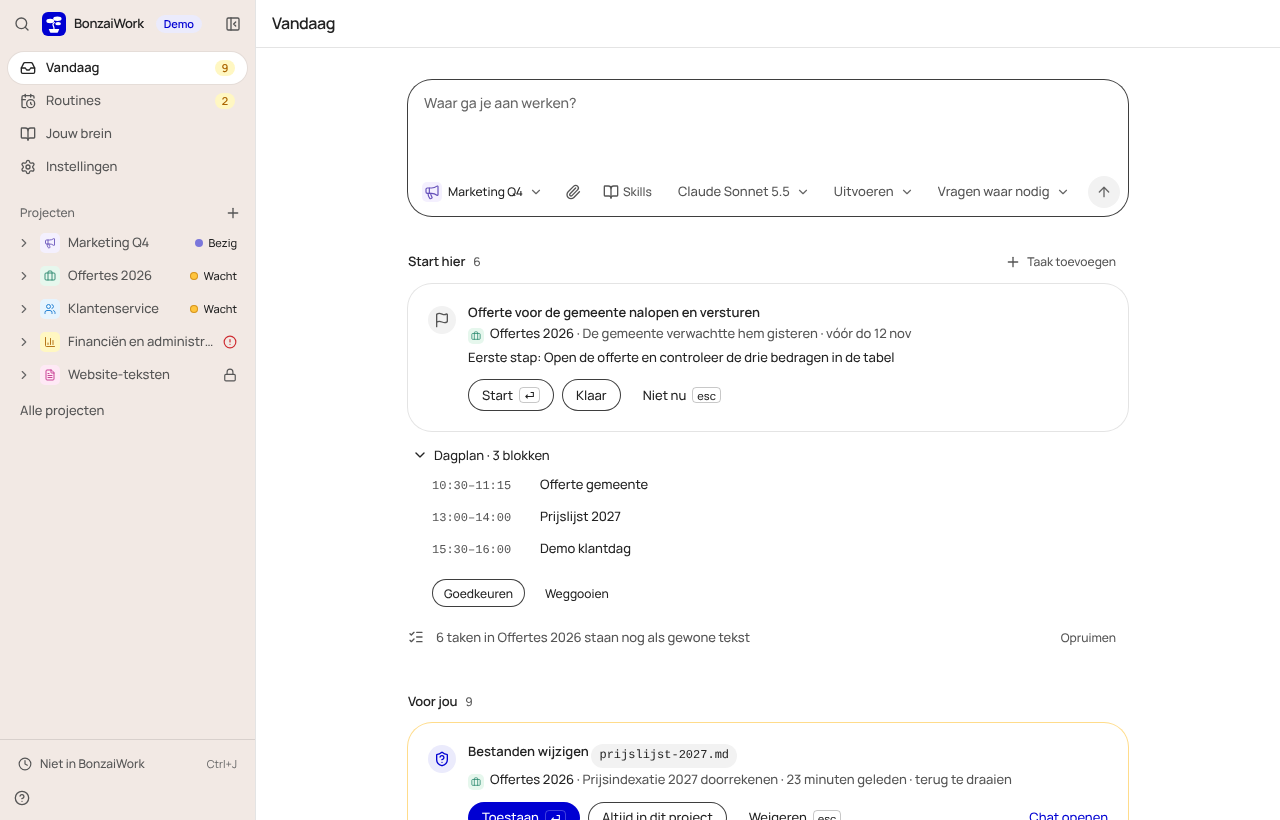
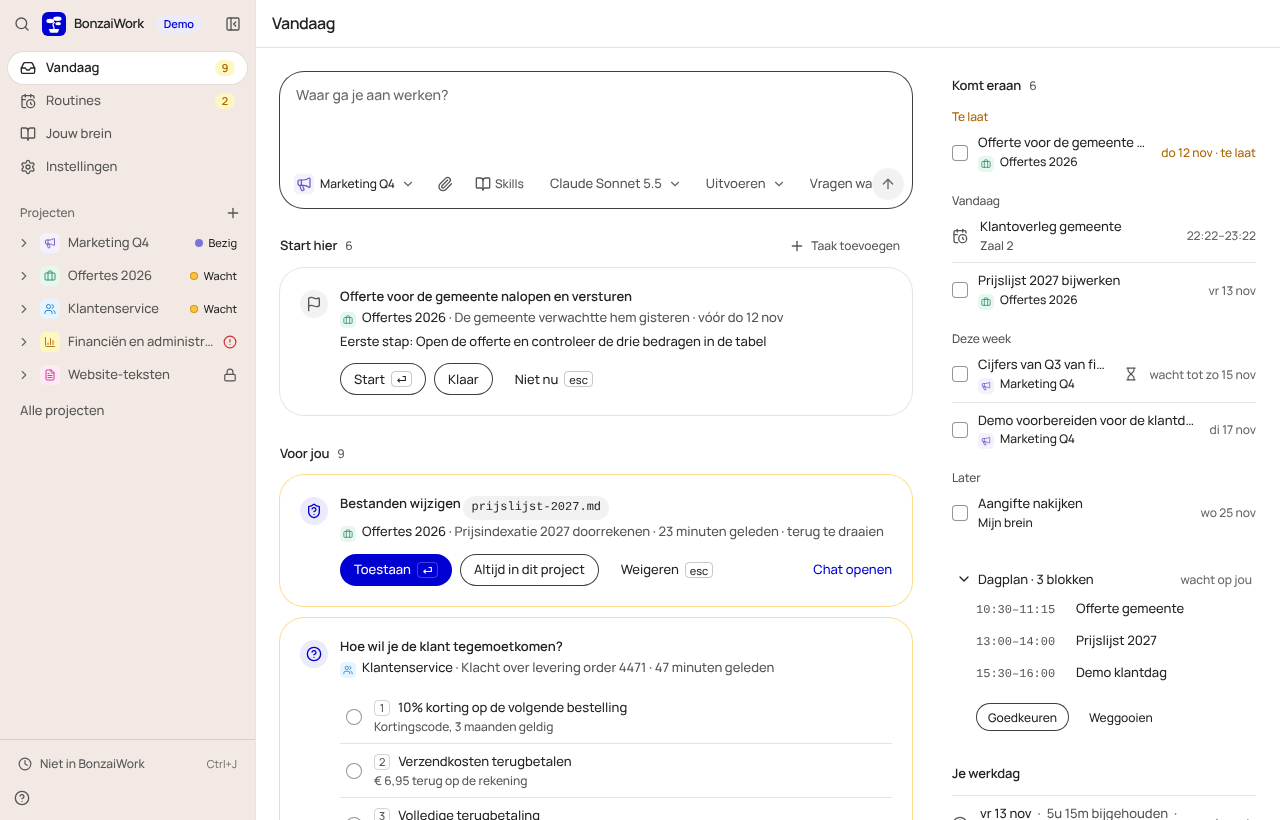
feat(bonzaiwork): a shorter Vandaag with the personal agent on
Two columns on a wide window: the work on the left, the day (Komt eraan,
the day plan, Je werkdag) on the right, where it stays in view. In one
column Komt eraan shows only what is late or today and the day plan is one
row until opened. A mail or Slack card is three lines until Antwoord
bekijken opens the reply; Versturen only shows with the full text. Voor
jou shows three cards, and the project list leaves the page on a desktop,
where the sidebar has it.

Claude-Session: https://claude.ai/code/session_01Nmgo2X54T1ZQKktNZCxs2x

diff --git a/apps/bonzaiwork/src/features/home/home-page.tsx b/apps/bonzaiwork/src/features/home/home-page.tsx
@@ -9,11 +9,12 @@ import { toast } from "~/components/ui/toast";
 import { copy } from "~/copy";
 import { errorText } from "~/lib/errors";
 import { SEEN_ALL_EVENT } from "~/lib/shortcuts";
-import { SMALL_UP, useMediaQuery } from "~/lib/use-media";
+import { cn } from "~/lib/cn";
+import { DESKTOP, SMALL_UP, useMediaQuery, WIDE } from "~/lib/use-media";
 
 import { useSidebarProjects } from "../projects/use-listed-projects";
 import { withWorld } from "../today/model";
-import { FocusLine, StartSection, TodayBlocked, UpcomingSection } from "../today/today-sections";
+import { CleanupRow, FocusLine, PlanSection, StartSection, TodayBlocked, UpcomingSection } from "../today/today-sections";
 import { AttentionSection } from "./attention-section";
 import { HomeComposer } from "./home-composer";
 import { awayRows, MAX_AWAY_ROWS, nextRoutine, readLastSeen, writeLastSeen } from "./model";
@@ -103,7 +104,21 @@ export function HomePage() {
       return false;
     }
   };
-  const composer = <HomeComposer projects={projects} size={smallUp ? "large" : "default"} autoFocus={false} onPark={agent && !agent.blocked ? park : undefined} />;
+  // With the personal agent on there is more to show: a second column on a wide window keeps the
+  // day (Komt eraan, dagplan, Je werkdag) beside the work instead of below it.
+  const wide = useMediaQuery(WIDE);
+  const desktop = useMediaQuery(DESKTOP);
+  const columns = Boolean(agent) && wide;
+  const composer = <HomeComposer projects={projects} size={smallUp && !agent ? "large" : "default"} autoFocus={false} onPark={agent && !agent.blocked ? park : undefined} />;
+  const cleanup = agent?.cleanup[0];
+  const day = (
+    <>
+      {agent ? <UpcomingSection rows={agent.upcoming} projects={everyProject} compact={!columns} /> : null}
+      {agent?.plan ? <PlanSection plan={agent.plan} open={columns} /> : null}
+      <WorkdaySection nextRoutine={next} projects={projectMap} />
+      {cleanup ? <CleanupRow candidate={cleanup} /> : null}
+    </>
+  );
 
   return (
     <div className="flex h-full min-h-0 flex-col">
@@ -111,17 +126,30 @@ export function HomePage() {
         <PageTitle>{copy.home.title}</PageTitle>
       </TopBar>
       <main className="min-h-0 flex-1 overflow-y-auto" data-testid="home-page">
-        <div className="mx-auto flex w-full max-w-3xl flex-col gap-8 px-4 pt-6 pb-12 sm:px-6 sm:pt-8">
-          {smallUp ? composer : null}
-          {agent?.focus ? <FocusLine focus={agent.focus} projects={everyProject} /> : null}
-          {agent?.blocked ? <TodayBlocked reason={agent.blocked} /> : null}
-          {agent && !agent.blocked ? <StartSection view={agent} projects={everyProject} isFocal={!decisionWaits} /> : null}
-          <AttentionSection items={attention.data ? items : undefined} loading={attention.isLoading} projects={projectMap} brains={brainMap} routines={routineMap} nextRoutine={next} focal={!agent?.start || decisionWaits} />
-          {agent ? <UpcomingSection rows={agent.upcoming} projects={everyProject} /> : null}
-          <BusySection chats={recent.data ?? []} projects={projectMap} />
-          <WhileAwaySection rows={away} projects={projectMap} lastSeenAt={lastSeenAt} onSeenAll={seenAll} />
-          <WorkdaySection nextRoutine={next} projects={projectMap} />
-          <ProjectsSection projects={projects} summaries={summaries} items={items} />
+        <div className={cn("mx-auto w-full px-4 pt-6 pb-12 sm:px-6", columns ? "grid max-w-6xl grid-cols-[minmax(0,1fr)_19rem] items-start gap-x-10" : "max-w-3xl sm:pt-8")}>
+          <div className={cn("flex min-w-0 flex-col", agent ? "gap-6" : "gap-8")}>
+            {smallUp ? composer : null}
+            {agent?.focus ? <FocusLine focus={agent.focus} projects={everyProject} /> : null}
+            {agent?.blocked ? <TodayBlocked reason={agent.blocked} /> : null}
+            {agent && !agent.blocked ? <StartSection view={agent} projects={everyProject} isFocal={!decisionWaits} /> : null}
+            <AttentionSection
+              items={attention.data ? items : undefined}
+              loading={attention.isLoading}
+              projects={projectMap}
+              brains={brainMap}
+              routines={routineMap}
+              nextRoutine={next}
+              focal={!agent?.start || decisionWaits}
+              maxCards={agent ? 3 : undefined}
+            />
+            {columns ? null : day}
+            <BusySection chats={recent.data ?? []} projects={projectMap} />
+            <WhileAwaySection rows={away} projects={projectMap} lastSeenAt={lastSeenAt} onSeenAll={seenAll} />
+            {/* With the agent on, the page keeps to the day: the sidebar already lists the projects on a desktop. */}
+            {agent && desktop ? null : <ProjectsSection projects={projects} summaries={summaries} items={items} />}
+          </div>
+          {/* The day stays in view while the work column scrolls. */}
+          {columns ? <aside className="sticky top-6 flex min-w-0 flex-col gap-6" data-testid="home-day">{day}</aside> : null}
         </div>
       </main>
       {smallUp ? null : <div className="shrink-0 border-t border-border bg-background px-3 pt-2 pb-[max(8px,env(safe-area-inset-bottom))]">{composer}</div>}

diff --git a/apps/bonzaiwork/src/features/today/today-sections.tsx b/apps/bonzaiwork/src/features/today/today-sections.tsx
@@ -22,7 +22,7 @@ import { href, navigate } from "~/lib/router";
 
 import { sendFirstMessage } from "../chat/first-message";
 import { SectionHeading } from "../home/attention-section";
-import { formatDay, groupUpcoming, MAX_UPCOMING_ROWS, meetingTime, startProject } from "./model";
+import { formatDay, groupUpcoming, MAX_UPCOMING_ROWS, meetingTime, startProject, upcomingNow } from "./model";
 
 /**
  * The personal agent's own sections on Vandaag (docs/bonzaiwork/persoonlijke-agent-plan.md §4):
@@ -186,17 +186,28 @@ function AddTodoDialog(props: { open: boolean; onOpenChange: (open: boolean) => 
   );
 }
 
-function PlanBlockList(props: { plan: DayPlan }) {
+/**
+ * The day plan. In the side column it stands open (the blocks are short and the answer, S3); in
+ * one column it is a single row until opened, so it never pushes "Voor jou" down.
+ */
+export function PlanSection(props: { plan: DayPlan; open: boolean }) {
   const backend = useBackend();
   const { busy, act } = useAction();
   const { plan } = props;
+  if (!plan.blocks.length) return null;
   return (
-    // Open while it waits for a decision: then the blocks are the answer (S3).
-    <Disclosure key={String(plan.approved)} label={copy.today.plan.title(plan.blocks.length)} defaultOpen={!plan.approved} testId="today-plan" panelClassName="ps-6 pt-1">
+    <Disclosure
+      key={`${plan.approved}-${props.open}`}
+      label={copy.today.plan.title(plan.blocks.length)}
+      trailing={plan.approved ? undefined : copy.today.plan.waiting}
+      defaultOpen={props.open}
+      testId="today-plan"
+      panelClassName="ps-6 pt-1"
+    >
       <ul>
         {plan.blocks.map((block) => (
           <li key={`${block.start}-${block.label}`} className="flex min-h-8 items-baseline gap-3 text-sm">
-            <span className="w-24 shrink-0 font-mono text-xs text-muted-foreground">{copy.today.plan.block(block.start, block.end)}</span>
+            <span className="w-[5.5rem] shrink-0 font-mono text-xs text-muted-foreground">{copy.today.plan.block(block.start, block.end)}</span>
             <span className="min-w-0 truncate text-foreground">{block.label}</span>
           </li>
         ))}
@@ -215,7 +226,7 @@ function PlanBlockList(props: { plan: DayPlan }) {
   );
 }
 
-function CleanupRow(props: { candidate: CleanupCandidate }) {
+export function CleanupRow(props: { candidate: CleanupCandidate }) {
   const backend = useBackend();
   const startChat = useStartChat();
   const { busy, act } = useAction();
@@ -226,7 +237,7 @@ function CleanupRow(props: { candidate: CleanupCandidate }) {
       if (started) navigate({ name: "project", projectId: started.project.id, chatId: started.chatId });
     });
   return (
-    <div className="flex min-h-9 flex-wrap items-center gap-x-3 gap-y-1 text-sm text-muted-foreground" data-testid="today-cleanup">
+    <div className="flex min-h-9 items-center gap-x-3 text-xs text-muted-foreground" data-testid="today-cleanup">
       <ListChecks className="size-4 shrink-0" aria-hidden="true" />
       <span className="min-w-0 flex-1">{copy.today.cleanup.line(candidate.lines, candidate.brainName)}</span>
       <Button variant="quiet" size="sm" disabled={busy} onClick={start}>
@@ -299,7 +310,6 @@ function StartCard(props: { start: StartHere; projects: ReadonlyMap<string, Proj
 export function StartSection(props: { view: TodayView; projects: ReadonlyMap<string, Project>; isFocal: boolean }) {
   const [adding, setAdding] = useState(false);
   const { view } = props;
-  const cleanup = view.cleanup[0];
   return (
     <section aria-labelledby="home-start" data-testid="home-start">
       <SectionHeading
@@ -323,8 +333,6 @@ export function StartSection(props: { view: TodayView; projects: ReadonlyMap<str
           // One line, no explanation (C6, P1); "Taak toevoegen" stands in the heading.
           <p className="text-sm text-muted-foreground">{copy.today.nothingOpen}</p>
         )}
-        {view.plan && view.plan.blocks.length ? <PlanBlockList plan={view.plan} /> : null}
-        {cleanup ? <CleanupRow candidate={cleanup} /> : null}
       </div>
       <AddTodoDialog open={adding} onOpenChange={setAdding} projects={props.projects} />
     </section>
@@ -383,10 +391,11 @@ function UpcomingItem(props: { row: UpcomingRow; projects: ReadonlyMap<string, P
 }
 
 /** Deadlines, promises and appointments for the coming days, soonest first; late in amber. */
-export function UpcomingSection(props: { rows: readonly UpcomingRow[]; projects: ReadonlyMap<string, Project> }) {
+export function UpcomingSection(props: { rows: readonly UpcomingRow[]; projects: ReadonlyMap<string, Project>; /** In one column: only what is late or today, the rest behind "Nog n". */ compact?: boolean }) {
   if (!props.rows.length) return null;
-  const shown = groupUpcoming(props.rows.slice(0, MAX_UPCOMING_ROWS));
-  const more = props.rows.slice(MAX_UPCOMING_ROWS);
+  const first = props.compact ? upcomingNow(props.rows) : props.rows.slice(0, MAX_UPCOMING_ROWS);
+  const shown = groupUpcoming(first);
+  const more = props.rows.slice(first.length);
   const group = (rows: readonly UpcomingRow[]) => (
     <ul>
       {rows.map((row) => (

diff --git a/apps/bonzaiwork/src/features/today/world-cards.tsx b/apps/bonzaiwork/src/features/today/world-cards.tsx
@@ -7,6 +7,7 @@ import type { DayItem } from "~/backend/types";
 import { ProseHtml } from "~/components/prose-html";
 import { Button } from "~/components/ui/button";
 import { Callout } from "~/components/ui/callout";
+import { Disclosure } from "~/components/ui/disclosure";
 import { Textarea } from "~/components/ui/field";
 import { Kbd } from "~/components/ui/misc";
 import { toast } from "~/components/ui/toast";
@@ -78,8 +79,11 @@ function MessageCard(props: CardProps<"message">) {
   const { item } = props;
   const { busy, act } = useWorldAction(props.onResolved);
   const [text, setText] = useState(item.draft ?? "");
+  // Closed, the card is three lines: who, why, and the start of the draft. The full text and
+  // "Versturen" only show together, so nothing is sent unseen (P9).
+  const [open, setOpen] = useState(false);
   const source = copy.today.message[item.source];
-  const canSend = Boolean(item.reply) && text.trim().length > 0;
+  const canSend = open && Boolean(item.reply) && text.trim().length > 0;
   const send = () => void act(() => backend.today.send(item.key, text), copy.today.message.sent);
   // Esc sets the card aside for a day; it never throws a message away.
   const later = () => void act(() => backend.today.later(item.key), copy.today.message.laterToast);
@@ -88,7 +92,7 @@ function MessageCard(props: CardProps<"message">) {
       ref={props.cardRef}
       className={CARD}
       tabIndex={0}
-      onKeyDown={cardKeys({ enter: canSend ? send : undefined, escape: later })}
+      onKeyDown={cardKeys({ enter: canSend ? send : item.reply && !open ? () => setOpen(true) : undefined, escape: later })}
       keyShortcuts="Enter Escape"
       testId={`attention-world-${item.source}`}
       label={source}
@@ -98,14 +102,20 @@ function MessageCard(props: CardProps<"message">) {
       state={
         <>
           {source} {copy.today.message.from(item.from)} · {item.why} <span className="whitespace-nowrap">· {relativeTime(item.at)}</span>
-          {item.reply ? <span className="block">{item.reply.via === "mail" ? copy.today.message.sendsMail(item.from) : copy.today.message.sendsSlack(item.title)}</span> : null}
+          {item.reply && open ? <span className="block">{item.reply.via === "mail" ? copy.today.message.sendsMail(item.from) : copy.today.message.sendsSlack(item.title)}</span> : null}
+          {item.reply && !open && text.trim() ? <span className="block truncate text-foreground">{text.trim().replace(/\s+/g, " ")}</span> : null}
         </>
       }
       actions={
         <>
-          {item.reply ? (
+          {item.reply && open ? (
             <Button {...primary(props.isFocal)} disabled={busy || !canSend} onClick={send} data-testid="world-send">
               {copy.today.message.send}
+              <Kbd>⏎</Kbd>
+            </Button>
+          ) : item.reply ? (
+            <Button {...primary(props.isFocal)} disabled={busy} onClick={() => setOpen(true)} data-testid="world-review">
+              {copy.today.message.review}
               <Kbd>⏎</Kbd>
             </Button>
           ) : (
@@ -117,7 +127,7 @@ function MessageCard(props: CardProps<"message">) {
             {copy.today.message.later}
             <Kbd>esc</Kbd>
           </Button>
-          {item.reply ? (
+          {item.reply && open ? (
             <Button variant="ghost" disabled={busy} onClick={() => void act(() => backend.today.dismiss(item.key), null)}>
               {copy.today.message.notMine}
             </Button>
@@ -126,8 +136,9 @@ function MessageCard(props: CardProps<"message">) {
       }
       link={item.link ? <ExternalLink url={item.link} label={copy.today.message.open(item.source === "mail" ? "Outlook" : "Slack")} /> : undefined}
     >
-      {item.reply ? (
+      {item.reply && open ? (
         <Textarea
+          autoFocus
           value={text}
           onChange={(event) => setText(event.target.value)}
           rows={Math.min(8, Math.max(3, text.split("\n").length + 1))}
@@ -173,7 +184,11 @@ function MeetingCard(props: CardProps<"meeting">) {
       }
       link={meeting.link ? <ExternalLink url={meeting.link} label={copy.today.meeting.open} /> : undefined}
     >
-      {html ? <ProseHtml html={html} className="mt-3 text-sm" /> : null}
+      {html ? (
+        <Disclosure label={copy.today.meeting.prep} size="sm" className="mt-2" panelClassName="ps-6 pt-1">
+          <ProseHtml html={html} className="text-sm" />
+        </Disclosure>
+      ) : null}
     </Callout>
   );
 }

diff --git a/apps/bonzaiwork/src/features/today/model.test.ts b/apps/bonzaiwork/src/features/today/model.test.ts
@@ -2,7 +2,7 @@ import { describe, expect, it } from "vitest";
 
 import type { AttentionItem, DayItem, Meeting, UpcomingRow } from "~/backend/types";
 
-import { formatDay, groupUpcoming, meetingTime, minutesUntil, withWorld } from "./model";
+import { formatDay, groupUpcoming, meetingTime, minutesUntil, upcomingNow, withWorld } from "./model";
 
 const meeting: Meeting = { id: "m", title: "Overleg", start: new Date(2026, 10, 13, 10, 20).getTime(), end: new Date(2026, 10, 13, 11, 20).getTime(), allDay: false, location: null, organizer: null, link: null };
 const message: DayItem = { kind: "message", key: "mail:1", source: "mail", title: "T", from: "F", why: "W", draft: null, link: null, reply: null, at: 5 };
@@ -31,6 +31,12 @@ describe("Komt eraan", () => {
     const row = (key: string, bucket: UpcomingRow["bucket"]): UpcomingRow => ({ kind: "meeting", key, bucket, date: "2026-11-13", meeting });
     expect(groupUpcoming([row("a", "late"), row("b", "late"), row("c", "week")]).map((group) => `${group.bucket}:${group.rows.length}`)).toEqual(["late:2", "week:1"]);
     expect(groupUpcoming([])).toEqual([]);
+  });
+
+  it("toont in één kolom alleen wat te laat of vandaag is, hooguit drie", () => {
+    const row = (key: string, bucket: UpcomingRow["bucket"]): UpcomingRow => ({ kind: "meeting", key, bucket, date: "2026-11-13", meeting });
+    expect(upcomingNow([row("a", "late"), row("b", "today"), row("c", "today"), row("d", "today"), row("e", "week")]).map((entry) => entry.key)).toEqual(["a", "b", "c"]);
+    expect(upcomingNow([row("e", "week"), row("f", "later")])).toEqual([]);
   });
 
   it("leest een datum en een afspraak zoals een mens ze zegt", () => {

diff --git a/apps/bonzaiwork/src/features/home/attention-section.tsx b/apps/bonzaiwork/src/features/home/attention-section.tsx
@@ -42,6 +42,8 @@ export function AttentionSection(props: {
   nextRoutine: Routine | null;
   /** False when another element on the page is the focal one ("Start hier"): then no card gets the filled primary by weight (P7). */
   focal?: boolean;
+  /** How many cards before "Nog n"; fewer when the page has more to show beside them. */
+  maxCards?: number;
 }) {
   const refs = useRef(new Map<string, HTMLElement>());
   const [hidden, setHidden] = useState<Map<string, number>>(() => new Map());
@@ -117,8 +119,9 @@ export function AttentionSection(props: {
     );
   }
 
-  const shown = visible.slice(0, MAX_CARDS);
-  const more = visible.slice(MAX_CARDS);
+  const maxCards = props.maxCards ?? MAX_CARDS;
+  const shown = visible.slice(0, maxCards);
+  const more = visible.slice(maxCards);
 
   return (
     <section aria-labelledby="home-for-you" data-testid="home-for-you">
@@ -128,7 +131,7 @@ export function AttentionSection(props: {
           {shown.map(card)}
           {more.length ? (
             <Disclosure label={copy.home.more(more.length)} panelClassName="flex flex-col gap-3 ps-0 pt-2">
-              {more.map((item) => card(item, MAX_CARDS))}
+              {more.map((item) => card(item, maxCards))}
             </Disclosure>
           ) : null}
         </div>

diff --git a/apps/bonzaiwork/src/copy.ts b/apps/bonzaiwork/src/copy.ts
@@ -121,6 +121,7 @@ export const copy = {
     plan: {
       title: (count: number) => (count === 1 ? "Dagplan · 1 blok" : `Dagplan · ${count} blokken`),
       approve: "Goedkeuren",
+      waiting: "wacht op jou",
       approved: "Goedgekeurd",
       drop: "Weggooien",
       dropped: "Weggegooid",
@@ -142,6 +143,7 @@ export const copy = {
       sendsMail: (name: string) => `Stuurt dit antwoord per mail aan ${name} · niet terug te halen`,
       sendsSlack: (channel: string) => `Plaatst dit antwoord in ${channel} · zichtbaar voor iedereen daar`,
       reply: "Jouw antwoord",
+      review: "Antwoord bekijken",
       send: "Versturen",
       sent: "Verstuurd",
       later: "Later",
@@ -152,6 +154,7 @@ export const copy = {
     },
     meeting: {
       label: "Afspraak begint zo",
+      prep: "Voorbereiding",
       startsIn: (minutes: number) => (minutes <= 0 ? "is begonnen" : minutes === 1 ? "over 1 minuut" : `over ${minutes} minuten`),
       seen: "Gezien",
       open: "Openen in Outlook",

diff --git a/apps/bonzaiwork/src/features/today/model.ts b/apps/bonzaiwork/src/features/today/model.ts
@@ -43,6 +43,14 @@ export function groupUpcoming(rows: readonly UpcomingRow[]): UpcomingGroup[] {
   return groups;
 }
 
+/** At most this many rows in "Komt eraan" when it shares one column with everything else. */
+export const MAX_UPCOMING_NOW = 3;
+
+/** What cannot wait: the rows that are late or today (the server lists them first), at most three. */
+export function upcomingNow(rows: readonly UpcomingRow[]): UpcomingRow[] {
+  return rows.filter((row) => row.bucket === "late" || row.bucket === "today").slice(0, MAX_UPCOMING_NOW);
+}
+
 /** The project a chat from Vandaag starts in, when it is still listed. */
 export function startProject(start: TodayChatStart, projects: readonly Project[]): Project | null {
   return projects.find((project) => project.id === start.projectId) ?? null;

diff --git a/docs/bonzaiwork/persoonlijke-agent-plan.md b/docs/bonzaiwork/persoonlijke-agent-plan.md
@@ -106,6 +106,15 @@ Met `--read-only` kan BonzaiWork geen antwoord per mail versturen; "Versturen" m
 
 ## 4. Vandaag
 
+De pagina blijft kort. Op een breed venster (vanaf 1280 px) staan er twee kolommen: links het werk
+(composer, "Start hier", "Voor jou", Bezig, "Terwijl je weg was"), rechts de dag ("Komt eraan", het
+dagplan, "Je werkdag"), en die rechterkolom blijft staan terwijl links scrolt. In één kolom toont "Komt
+eraan" alleen wat te laat of vandaag is (hooguit drie regels, de rest achter "Nog n") en is het dagplan
+één regel tot je het opent. Met de agent aan toont "Voor jou" drie kaarten in plaats van vijf, en valt de
+projectenlijst op een desktop weg: die staat al in de zijbalk. Een kaart voor mail of Slack is dicht drie
+regels (wie, waarom, het begin van het concept); "Antwoord bekijken" opent het bewerkbare antwoord, en
+pas dan staat er "Versturen".
+
 Volgorde; secties zonder inhoud worden niet getoond:
 
 1. **Composer**, met **Parkeren** (⌥⏎) zodra er tekst staat: de gedachte gaat naar `inbox.md`, toast
@@ -115,7 +124,7 @@ Volgorde; secties zonder inhoud worden niet getoond:
    van de taak waarin de agent de eerste stap al doet, en meldt aanwezigheid voor de agenda. **Klaar**
    vinkt af. **Niet nu** (esc) geeft de volgende, hooguit drie keer per dag. Daaronder het **dagplan** om
    goed te keuren, de regel **Opruimen**, en in de kop "Taak toevoegen".
-4. **Voor jou** (bestaand, maximaal 5 kaarten), aangevuld met kaarten uit de wereld, na wat een agent
+4. **Voor jou** (bestaand; met de agent aan maximaal 3 kaarten), aangevuld met kaarten uit de wereld, na wat een agent
    stilzet en vóór mislukte chats:
    - afspraak die binnen een halfuur begint, met de voorbereiding als die er is · Gezien;
    - mail of Slack-draad: waarom het jou nodig heeft, het concept in een bewerkbaar veld, en in de
